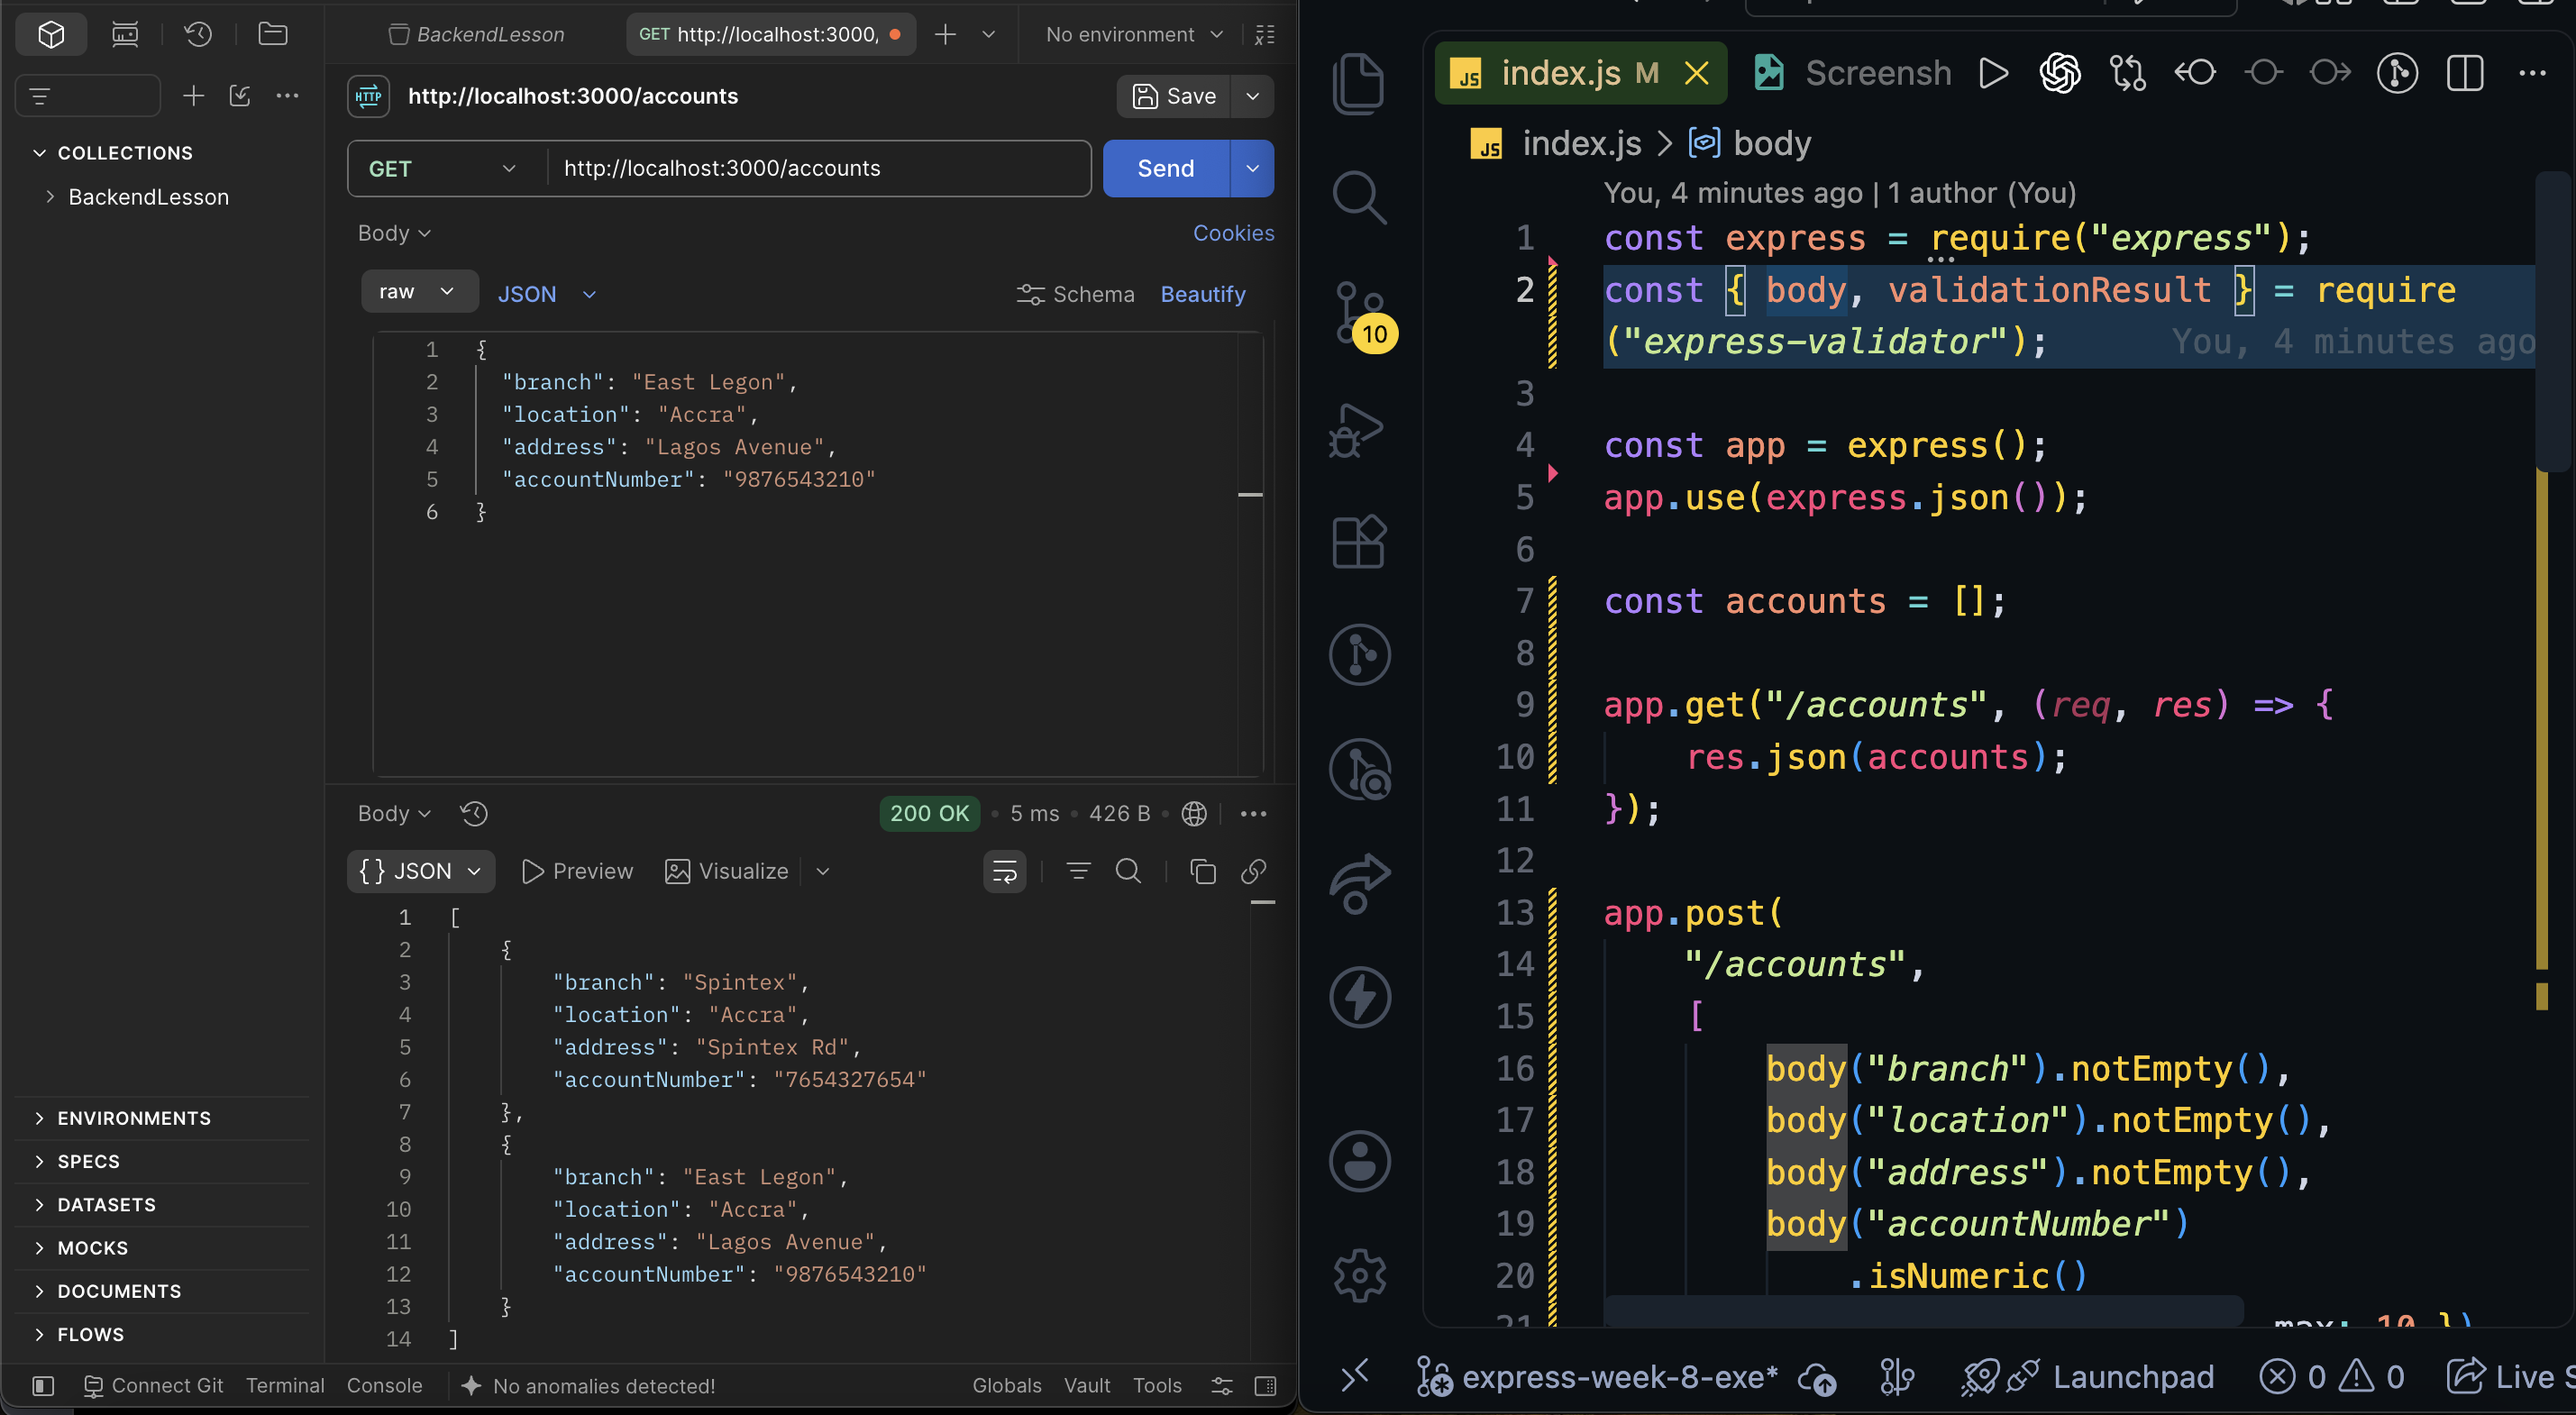
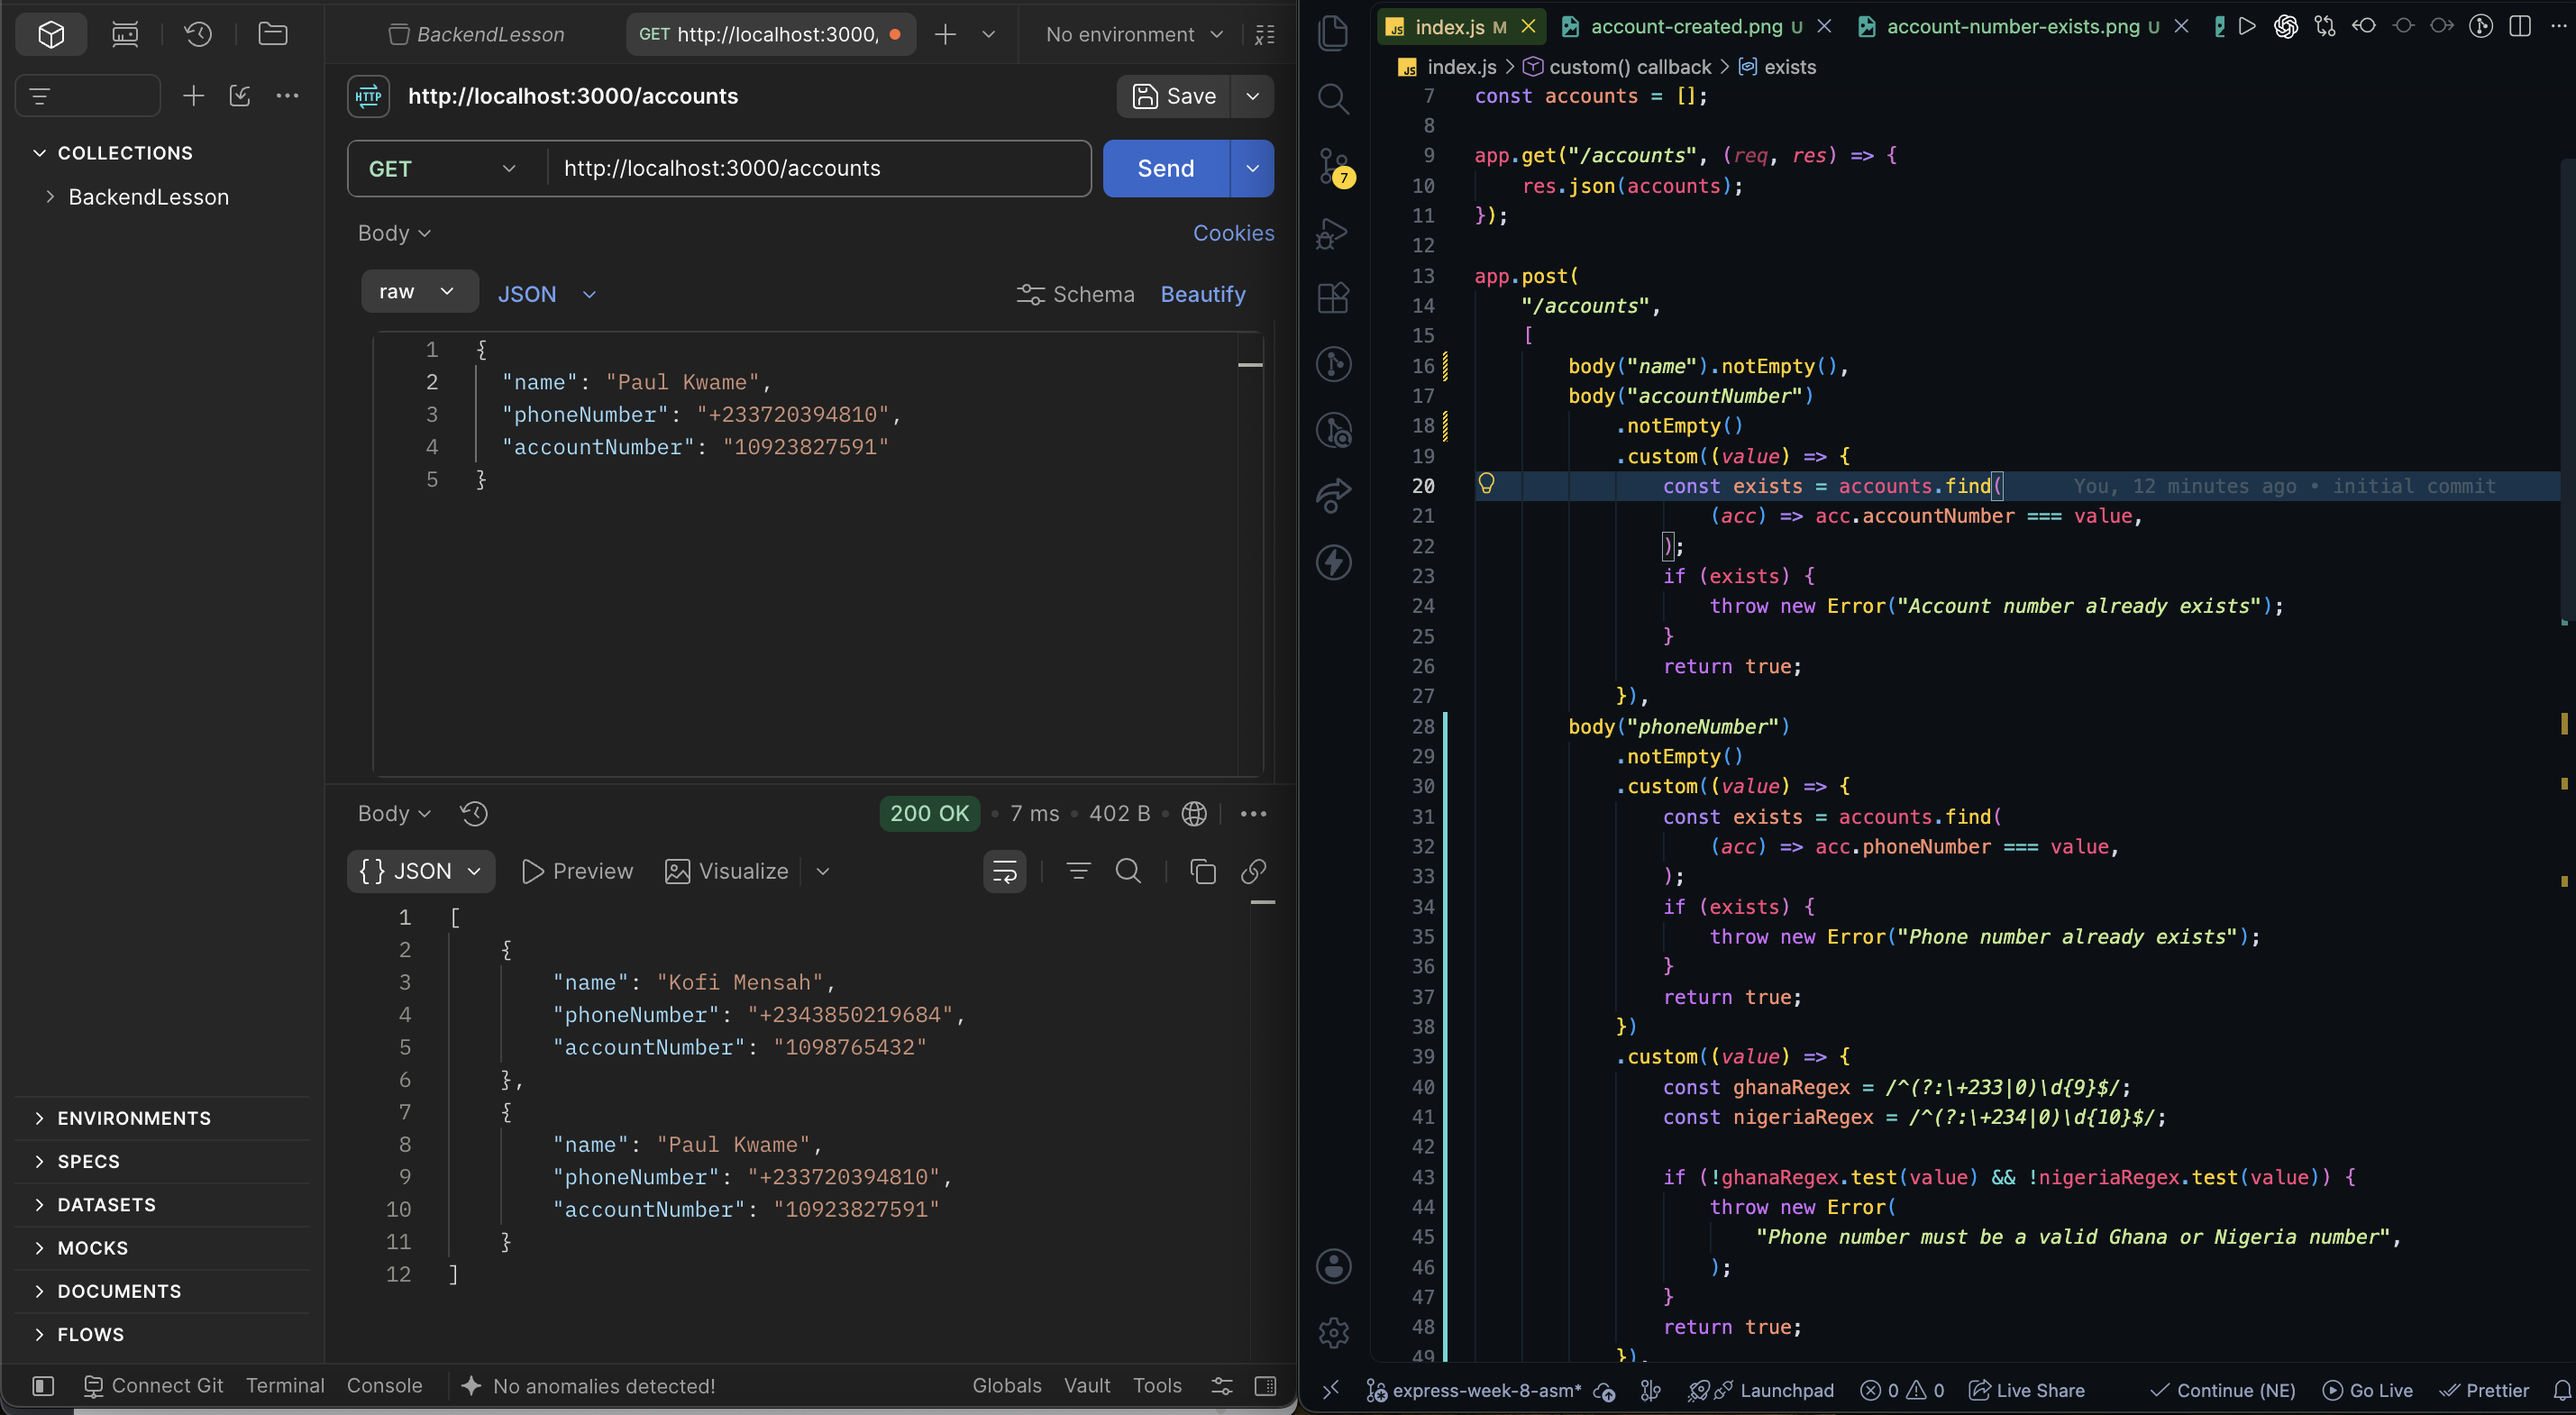
initial commit

diff --git a/index.js b/index.js
@@ -13,18 +13,37 @@ app.get("/accounts", (req, res) => {
 app.post(
     "/accounts",
     [
-        body("branch").notEmpty(),
-        body("location").notEmpty(),
-        body("address").notEmpty(),
+        body("name").notEmpty(),
         body("accountNumber")
-            .isNumeric()
-            .isLength({ min: 10, max: 10 })
+            .notEmpty()
             .custom((value) => {
                 const exists = accounts.find(
                     (acc) => acc.accountNumber === value,
                 );
                 if (exists) {
                     throw new Error("Account number already exists");
+                }
+                return true;
+            }),
+        body("phoneNumber")
+            .notEmpty()
+            .custom((value) => {
+                const exists = accounts.find(
+                    (acc) => acc.phoneNumber === value,
+                );
+                if (exists) {
+                    throw new Error("Phone number already exists");
+                }
+                return true;
+            })
+            .custom((value) => {
+                const ghanaRegex = /^(?:\+233|0)\d{9}$/;
+                const nigeriaRegex = /^(?:\+234|0)\d{10}$/;
+
+                if (!ghanaRegex.test(value) && !nigeriaRegex.test(value)) {
+                    throw new Error(
+                        "Phone number must be a valid Ghana or Nigeria number",
+                    );
                 }
                 return true;
             }),
@@ -36,14 +55,13 @@ app.post(
         }
 
         const newAccount = {
-            branch: req.body.branch,
-            location: req.body.location,
-            address: req.body.address,
+            name: req.body.name,
+            phoneNumber: req.body.phoneNumber,
             accountNumber: req.body.accountNumber,
         };
 
         accounts.push(newAccount);
-        console.log(accounts);
+
         res.status(201).json({
             message: "Account created successfully",
             account: newAccount,
@@ -52,5 +70,5 @@ app.post(
 );
 
 app.listen(3000, () => {
-    console.log("listening on port 3000");
+    console.log("Server running on port 3000");
 });

diff --git a/README.md b/README.md
@@ -4,10 +4,14 @@
 
 ![Screenshot of work](./screenshots/get-request.png)
 
-## POST request body (valid)
+## Account created
 
-![Screenshot of work](./screenshots/valid-data.png)
+![Screenshot of work](./screenshots/account-created.png)
 
-## POST request body (invalid)
+## Account Number Exists
 
-![Screenshot of work](./screenshots/invalid-data.png)
+![Screenshot of work](./screenshots/account-number-exists.png)
+
+## Invalid Number
+
+![Screenshot of work](./screenshots/invalid-number.png)
